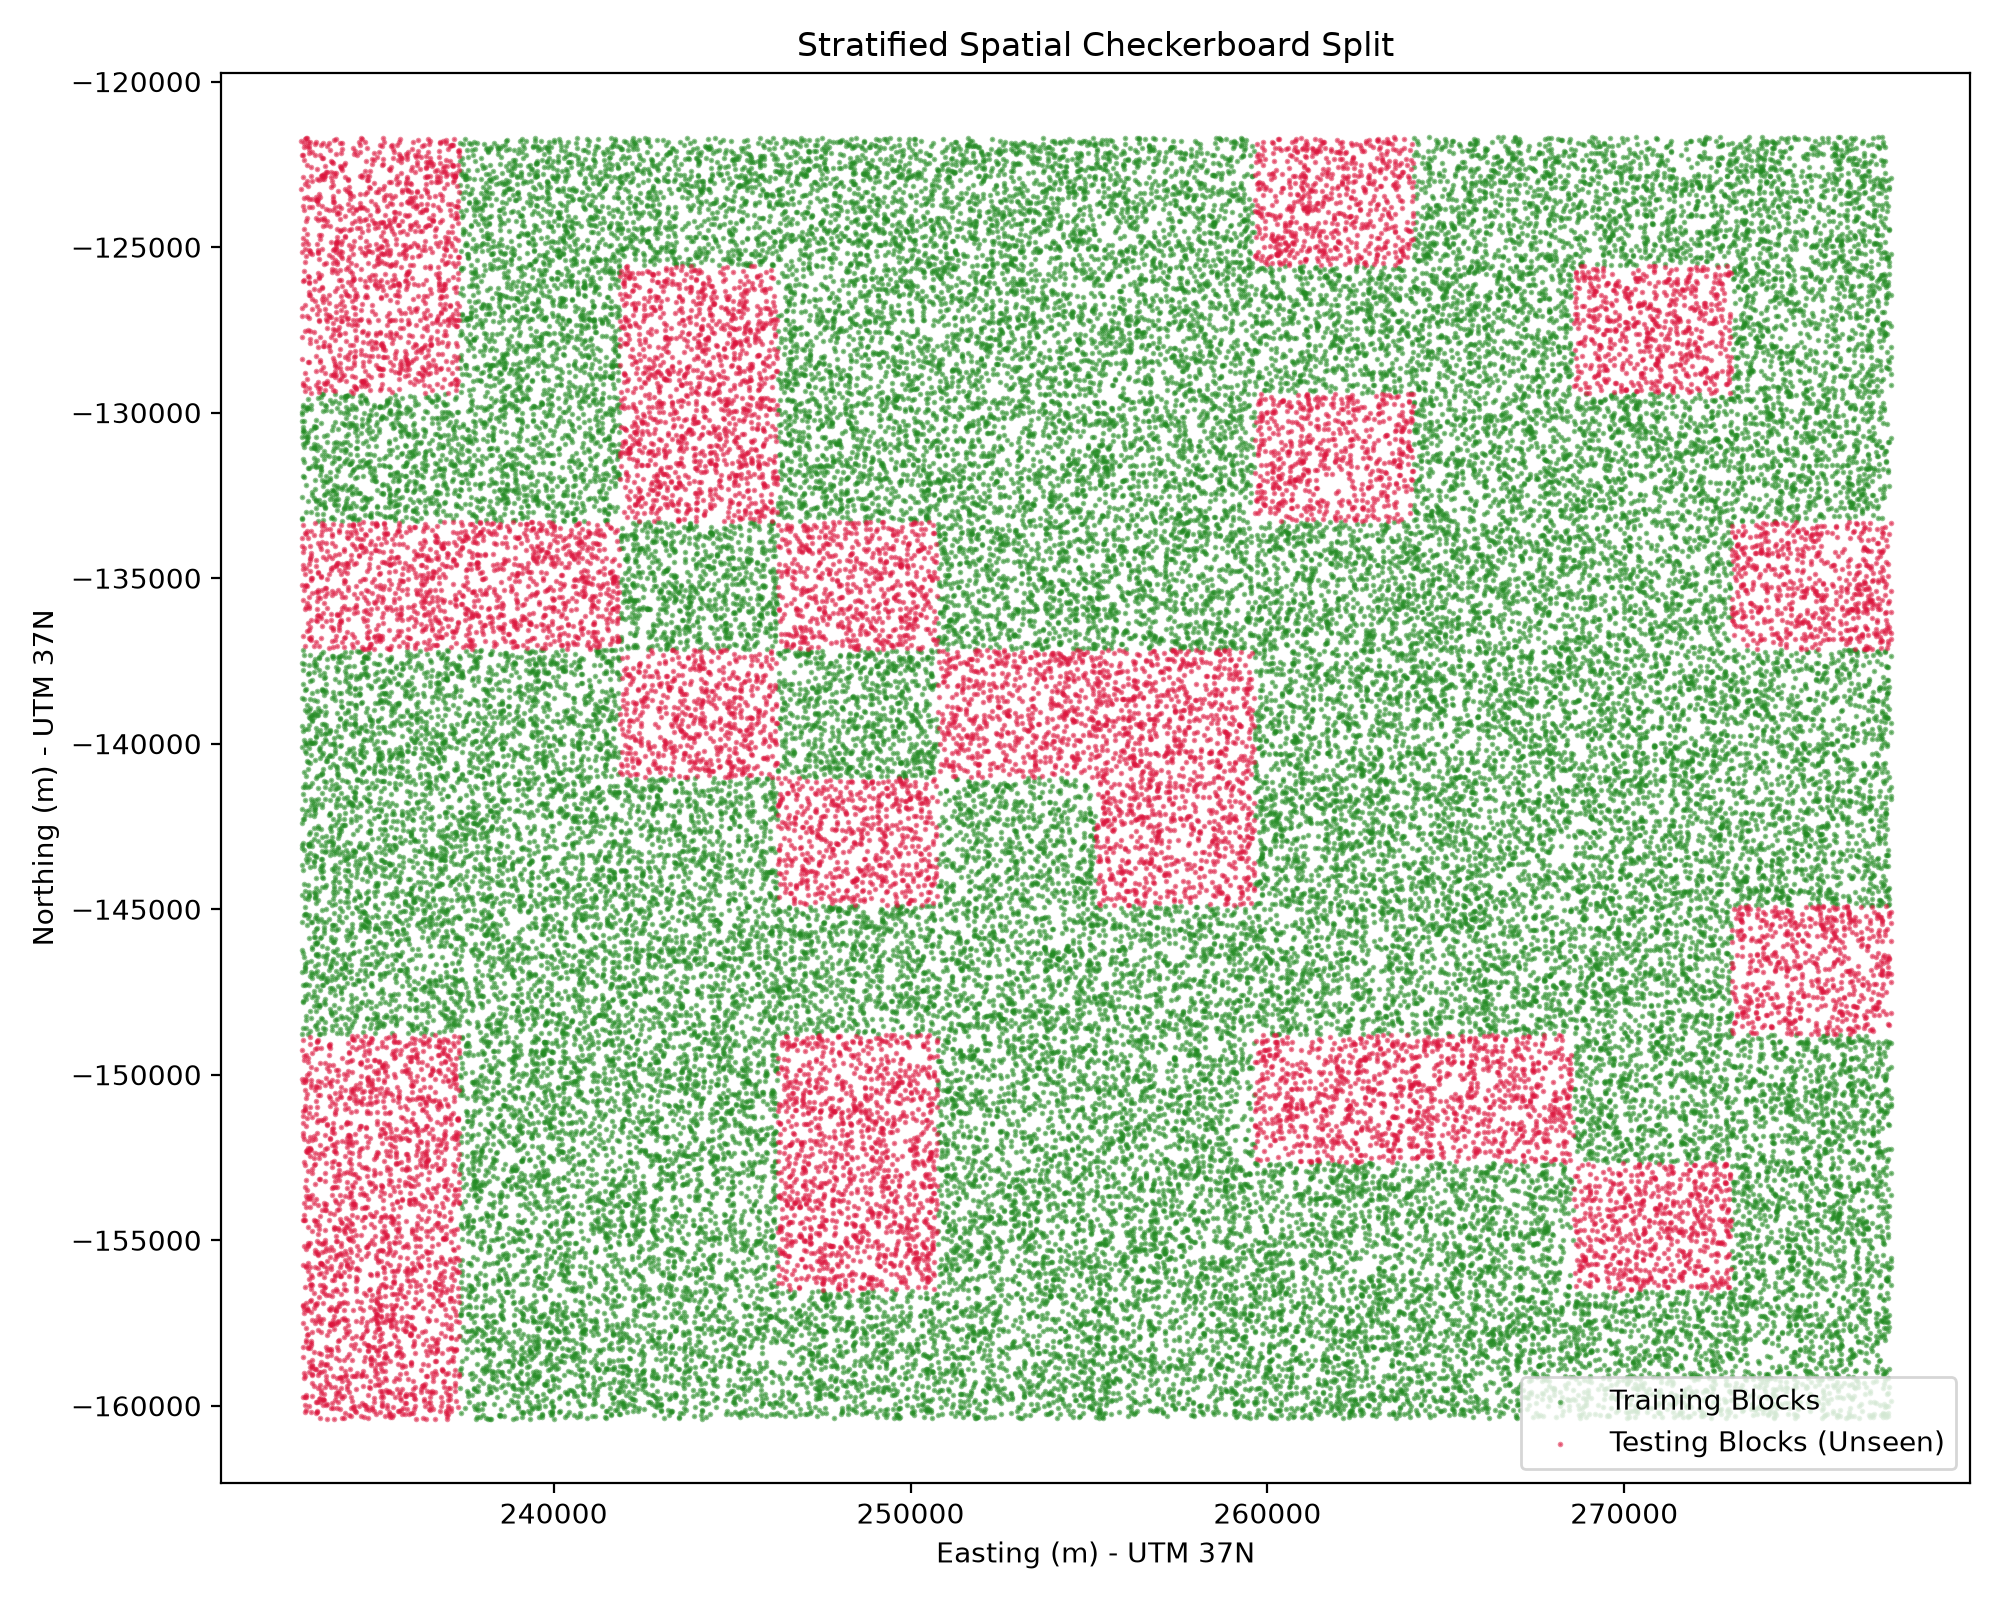
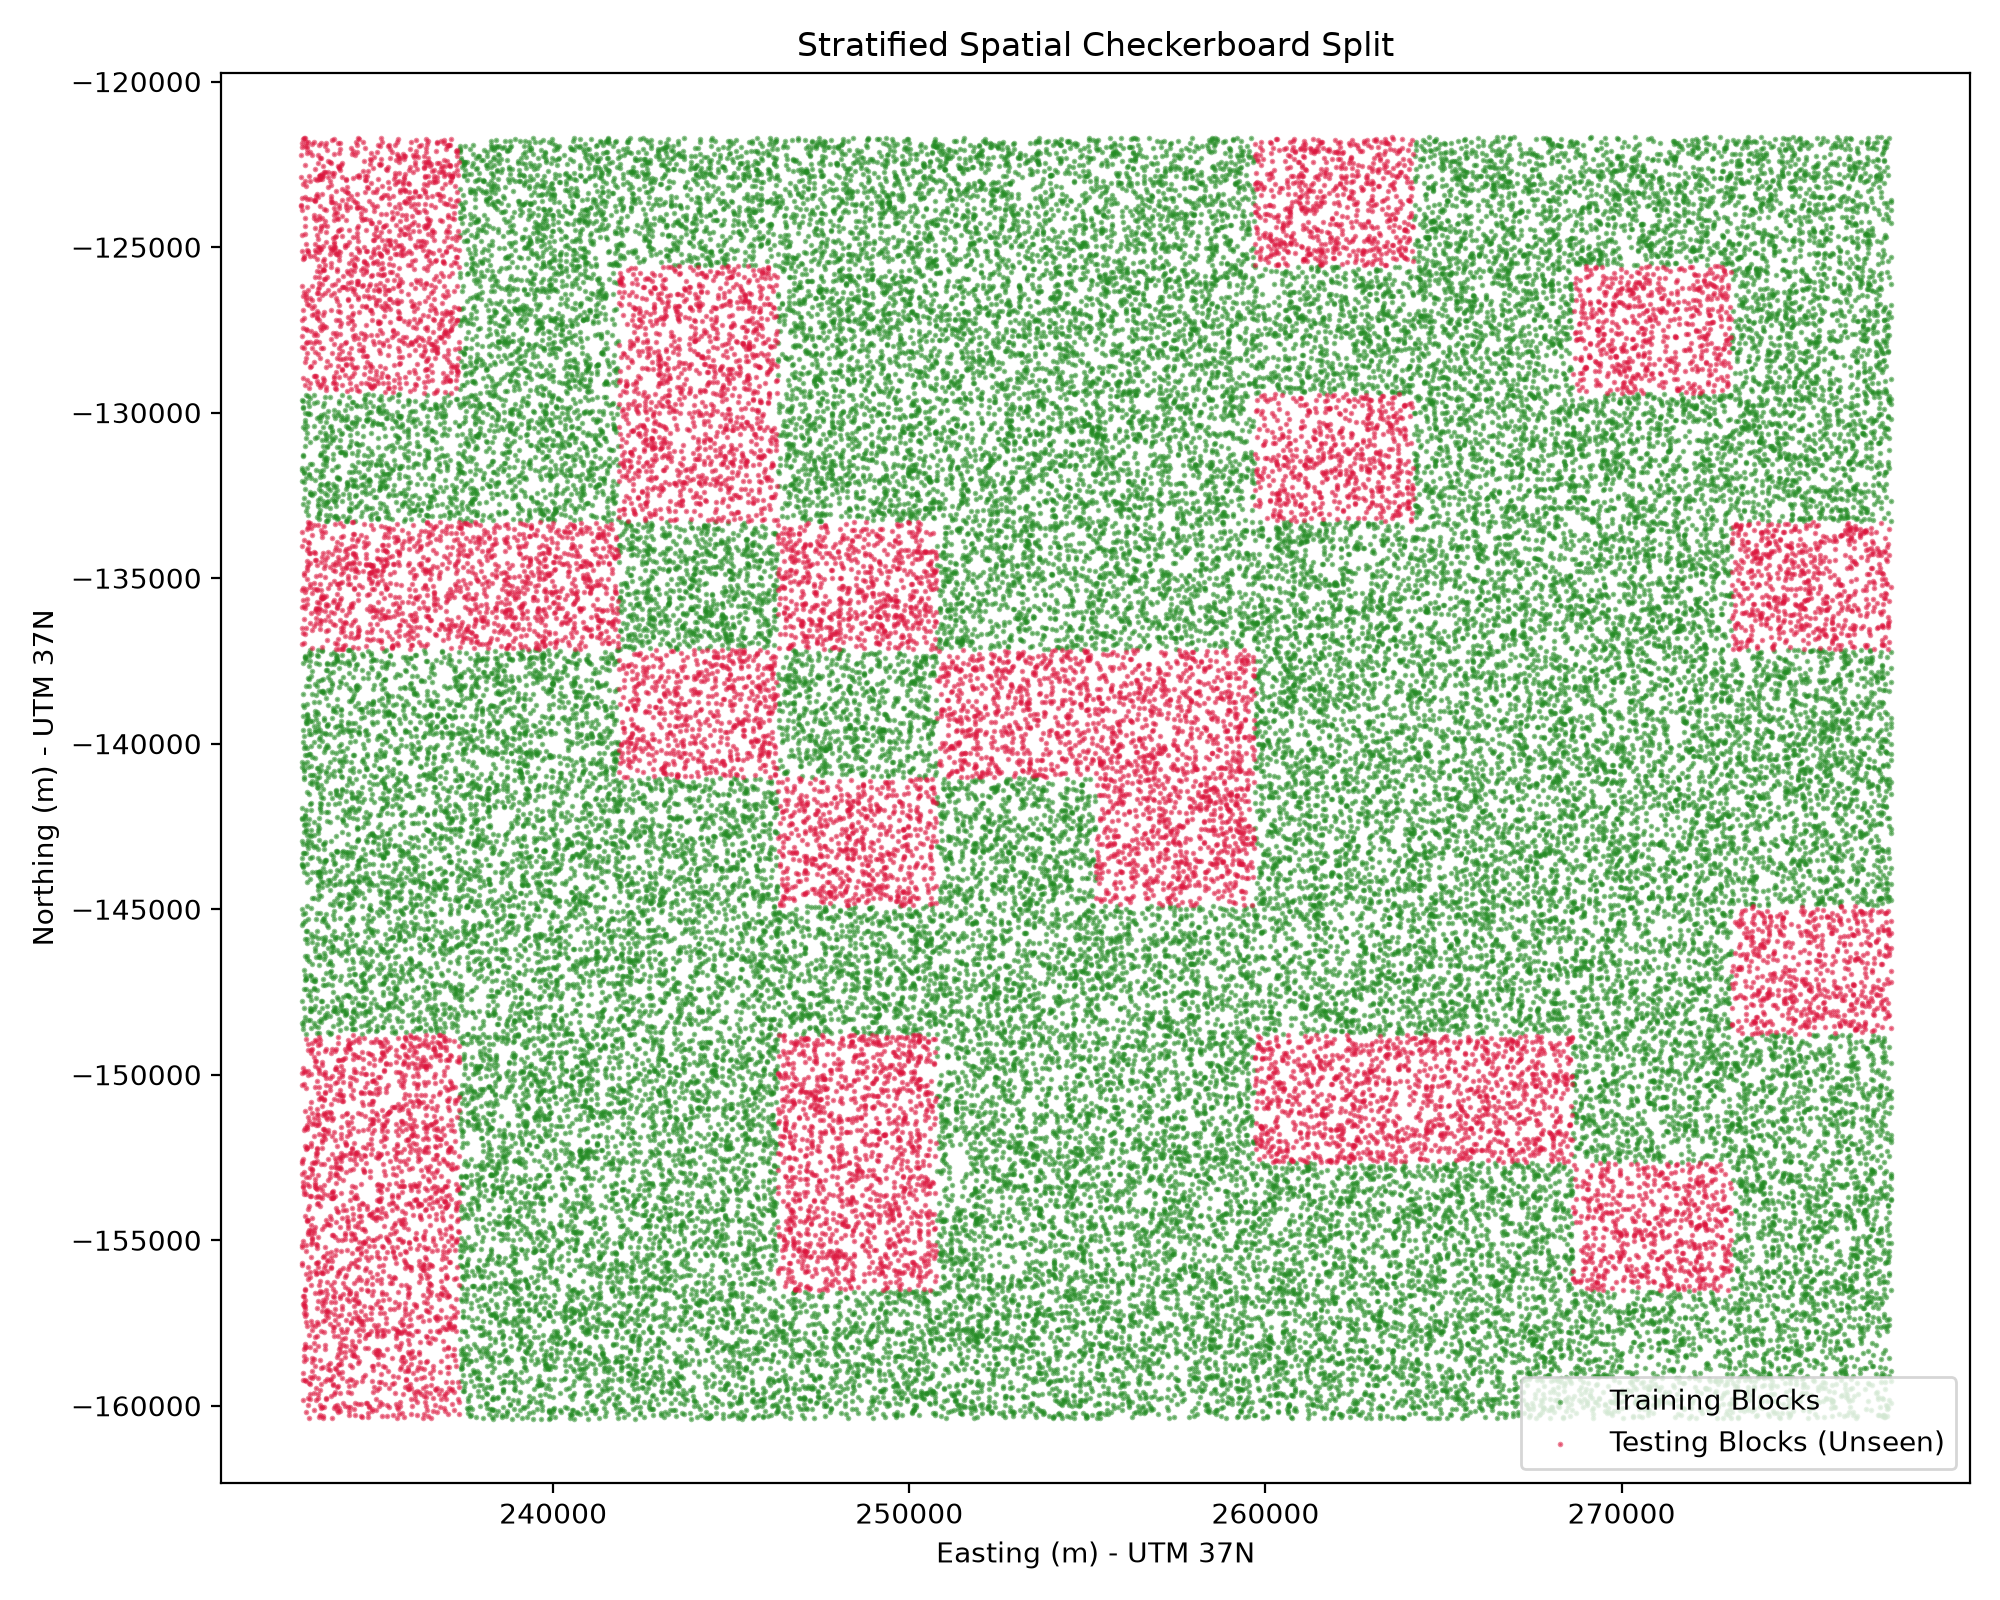
Train RF and XGBoost Individual Models and Evaluate

diff --git a/scripts/06c_train_single_models.py b/scripts/06c_train_single_models.py
@@ -1,0 +1,64 @@
+import os
+import time
+import joblib
+import pandas as pd
+from sklearn.ensemble import RandomForestRegressor
+import xgboost as xgb
+
+print("=======================================================")
+print("STARTING PHASE 6C: SINGLE-STAGE REGRESSOR TRAINING")
+print("=======================================================")
+
+os.makedirs("models", exist_ok=True)
+print("1. Loading FULL spatial training data (Dry + Wet land)...")
+train_df = pd.read_parquet("data/processed/train_data.parquet")
+
+FEATURES = [
+    "flow_acc", 
+    "slope_deg", 
+    "twi", 
+    "hand", 
+    "mannings_n", 
+    "rainfall_mm", 
+    "building_density"
+]
+TARGET = "flood_depth"
+
+X_train = train_df[FEATURES]
+y_train = train_df[TARGET]
+
+# -------------------------------------------------------------------------
+# 1. SINGLE-STAGE RANDOM FOREST
+# -------------------------------------------------------------------------
+print("\n2. Training Single-Stage Random Forest Regressor...")
+rf_reg = RandomForestRegressor(
+    n_estimators=100,
+    max_depth=20,
+    n_jobs=-1,
+    random_state=42
+)
+t0 = time.time()
+rf_reg.fit(X_train, y_train)
+print(f"   [OK] RF trained in {time.time() - t0:.1f} seconds.")
+
+# -------------------------------------------------------------------------
+# 2. SINGLE-STAGE XGBOOST
+# -------------------------------------------------------------------------
+print("\n3. Training Single-Stage XGBoost Regressor...")
+xgb_reg = xgb.XGBRegressor(
+    n_estimators=200,
+    max_depth=8,
+    learning_rate=0.1,
+    tree_method="hist",  # Handles the zero-inflation heavily optimized
+    n_jobs=-1,
+    random_state=42
+)
+t0 = time.time()
+xgb_reg.fit(X_train, y_train)
+print(f"   [OK] XGBoost trained in {time.time() - t0:.1f} seconds.")
+
+print("\n4. Saving Single-Stage Models...")
+model_dict = {"rf_single": rf_reg, "xgb_single": xgb_reg}
+joblib.dump(model_dict, "models/single_stage_models.joblib", compress=3)
+print("   [OK] Saved -> models/single_stage_models.joblib")
+print("=======================================================")

diff --git a/scripts/07c_evaluate_single_models.py b/scripts/07c_evaluate_single_models.py
@@ -1,0 +1,52 @@
+import os
+import joblib
+import pandas as pd
+import numpy as np
+from sklearn.metrics import mean_squared_error, mean_absolute_error, r2_score
+
+print("=======================================================")
+print("STARTING PHASE 7C: SINGLE-STAGE EVALUATION")
+print("=======================================================")
+
+models = joblib.load("models/single_stage_models.joblib")
+rf_reg = models["rf_single"]
+xgb_reg = models["xgb_single"]
+
+test_df = pd.read_parquet("data/processed/test_data.parquet")
+
+FEATURES = [
+    "flow_acc", 
+    "slope_deg", 
+    "twi", 
+    "hand", 
+    "mannings_n", 
+    "rainfall_mm", 
+    "building_density"
+]
+X_test = test_df[FEATURES]
+y_test = test_df["flood_depth"]
+
+print(f"1. Running Inference across {len(X_test):,} unseen pixels...")
+rf_preds = rf_reg.predict(X_test)
+xgb_preds = xgb_reg.predict(X_test)
+
+# We evaluate performance inside the actual hazard zones (>10cm) 
+# to keep the comparison fair against the Two-Stage models.
+flooded_mask = y_test > 0.1
+
+if flooded_mask.sum() > 0:
+    print("\n2. RANDOM FOREST (Single-Stage) ACCURACY:")
+    rf_rmse = np.sqrt(mean_squared_error(y_test[flooded_mask], rf_preds[flooded_mask]))
+    rf_r2 = r2_score(y_test[flooded_mask], rf_preds[flooded_mask])
+    print(f"   RMSE: {rf_rmse:.4f} meters")
+    print(f"   R2 Score:  {rf_r2:.4f}")
+
+    print("\n3. XGBOOST (Single-Stage) ACCURACY:")
+    xgb_rmse = np.sqrt(mean_squared_error(y_test[flooded_mask], xgb_preds[flooded_mask]))
+    xgb_r2 = r2_score(y_test[flooded_mask], xgb_preds[flooded_mask])
+    print(f"   RMSE: {xgb_rmse:.4f} meters")
+    print(f"   R2 Score:  {xgb_r2:.4f}")
+
+print("=======================================================")
+print("[SUCCESS] Phase 7C Complete.")
+print("=======================================================")
